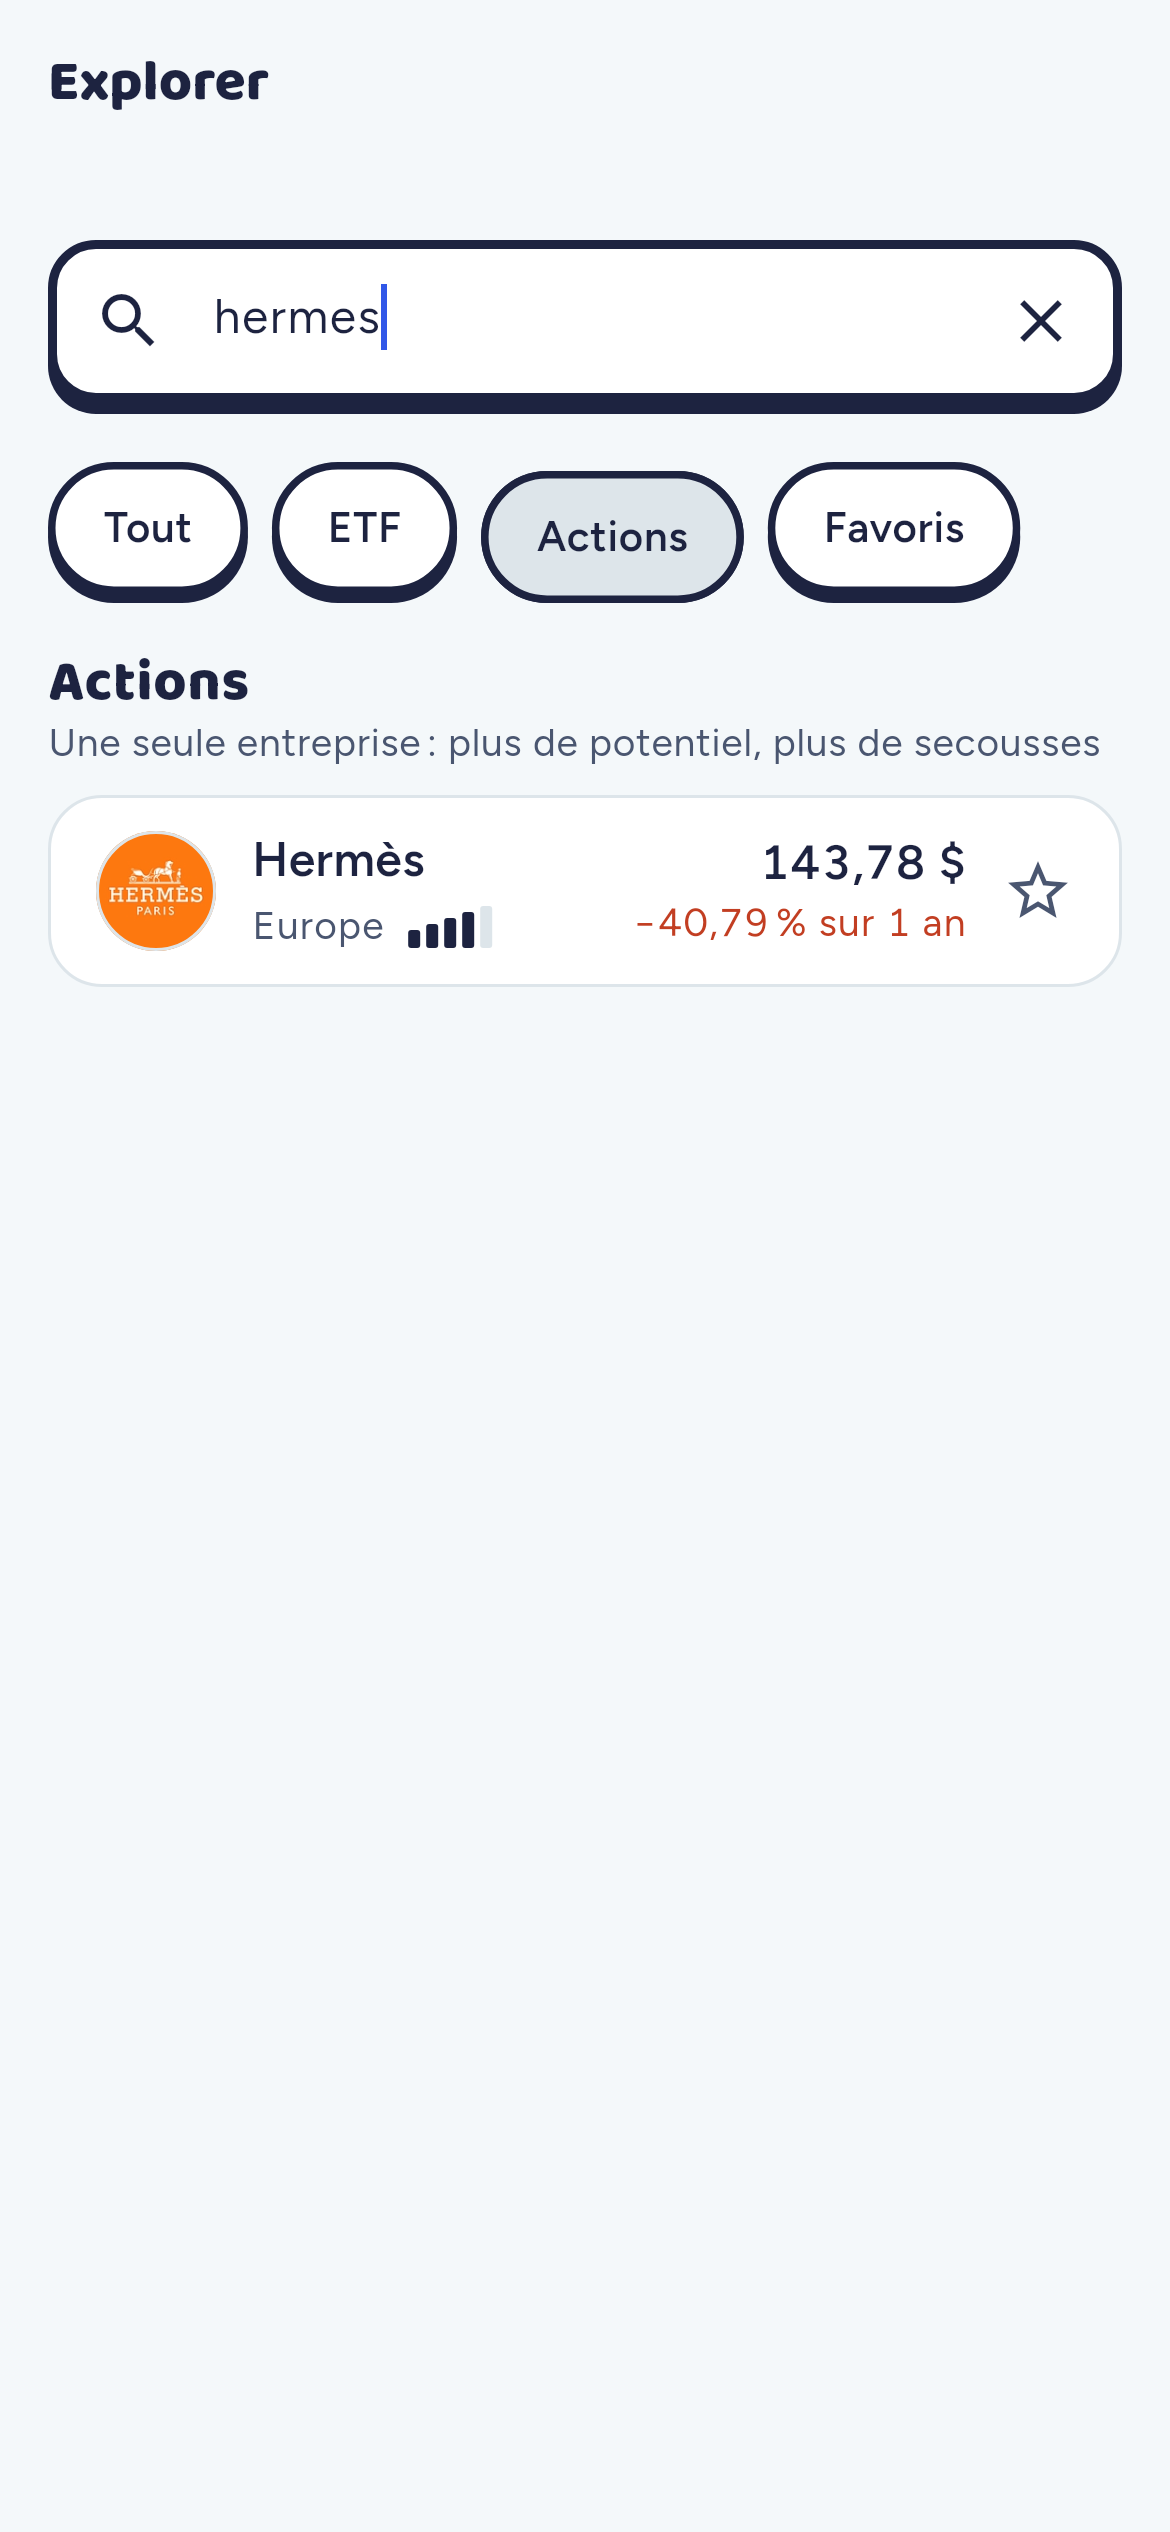
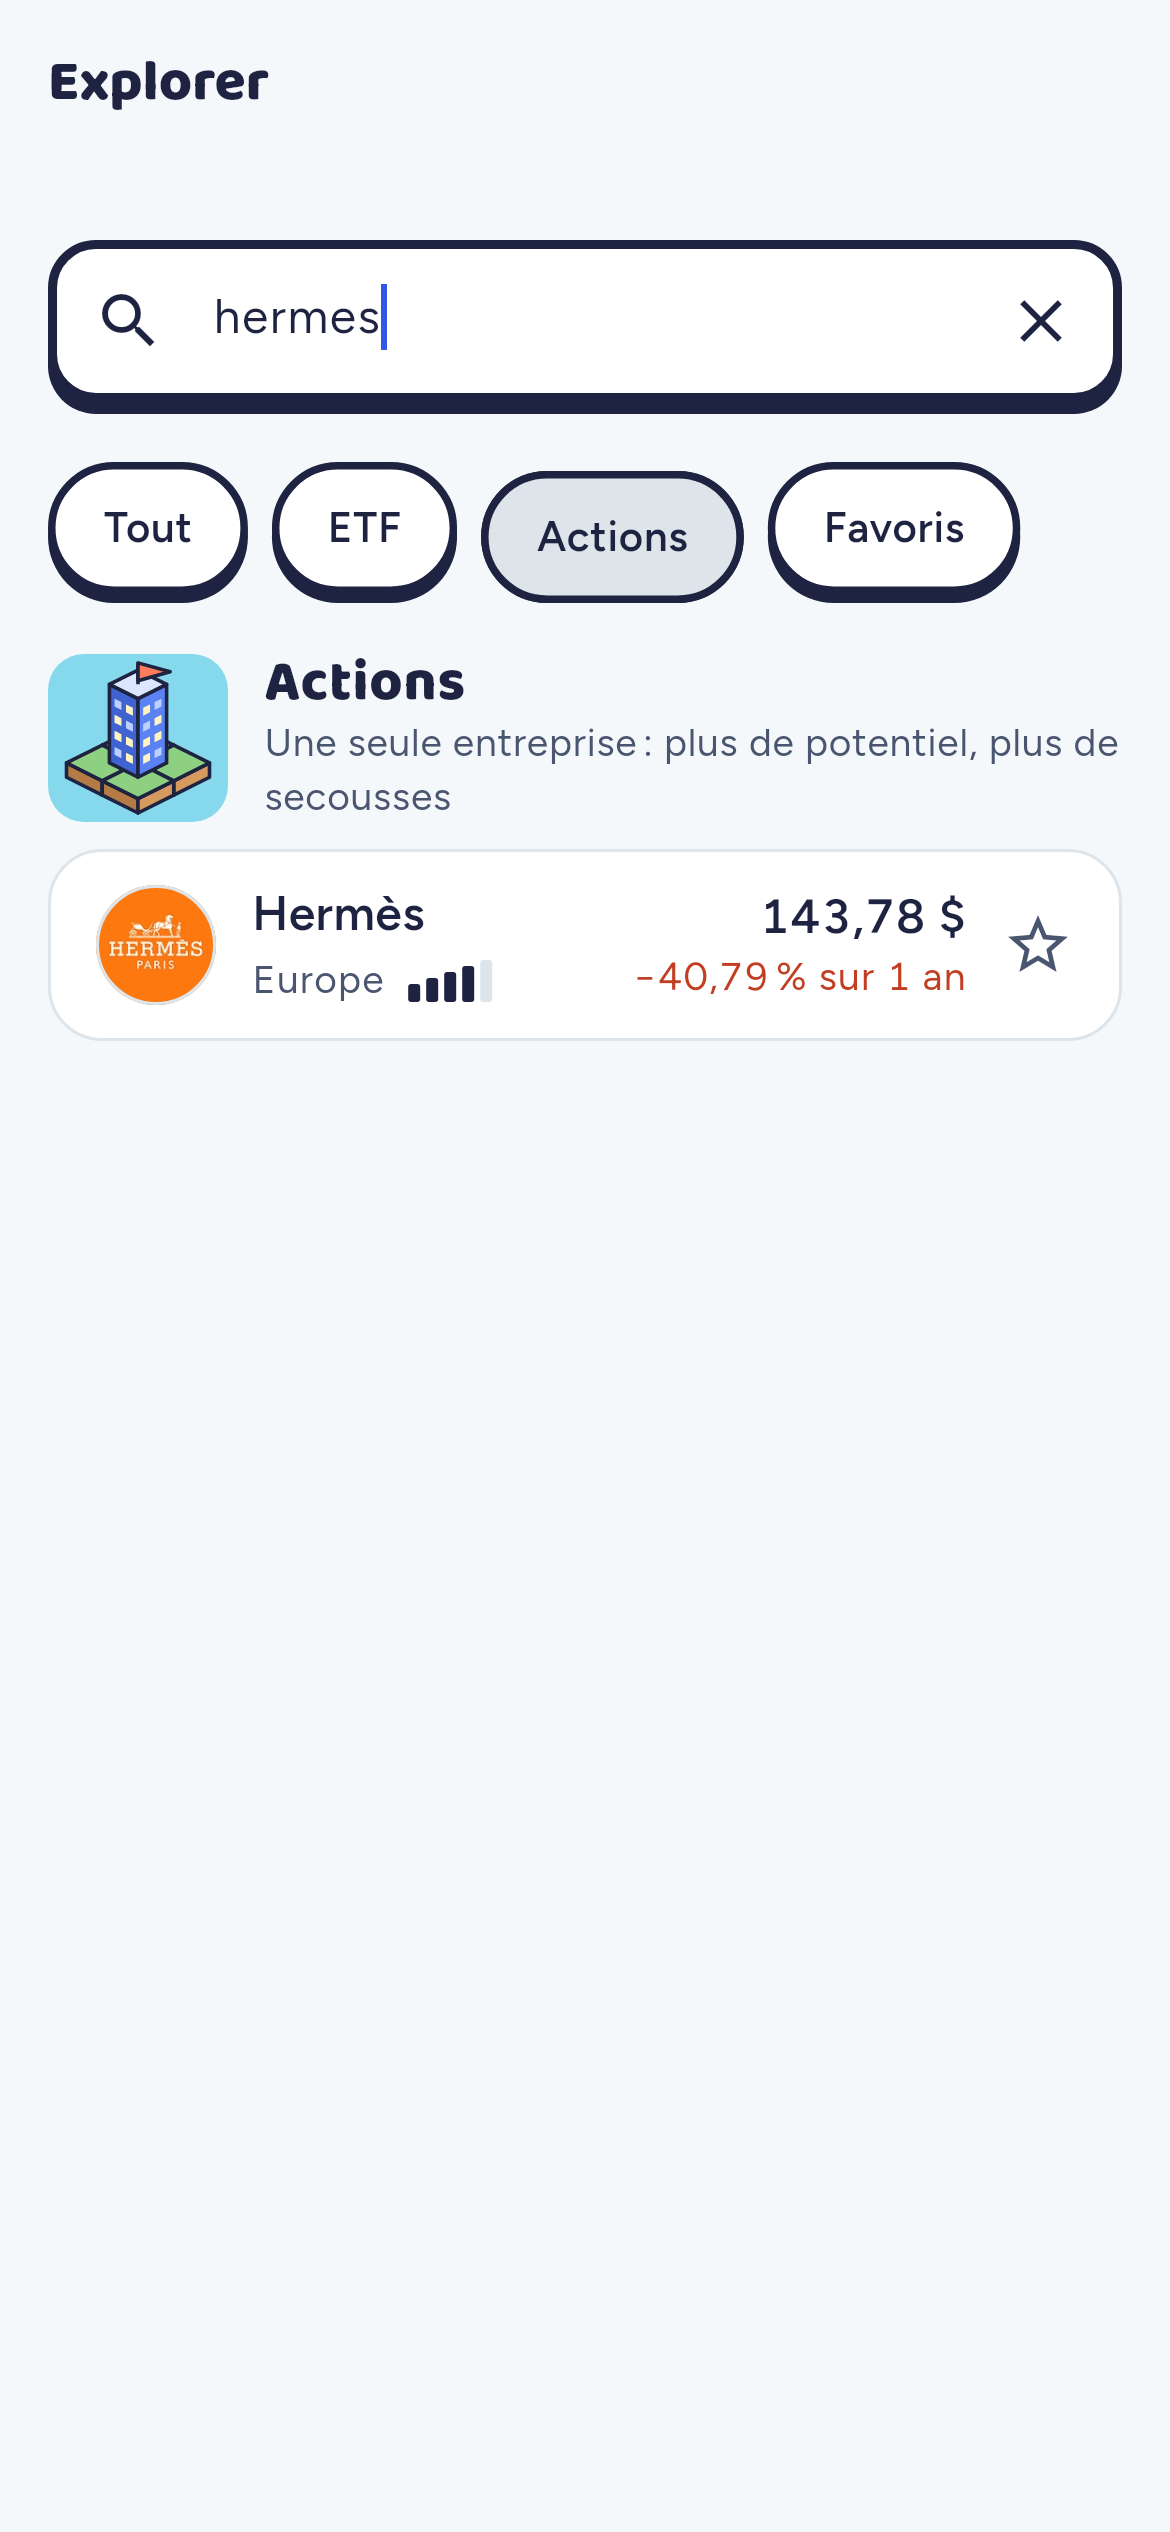
M11-5: Explore's sections show what they hold (#9)

Changed region(s): [[0.0308, 0.2496, 0.9538, 0.4056], [0.8615, 0.3432, 0.9231, 0.4056]]

diff --git a/app/lib/presentation/features/explorer/asset_kind_scene.dart b/app/lib/presentation/features/explorer/asset_kind_scene.dart
@@ -1,0 +1,152 @@
+import 'package:flutter/material.dart';
+
+import '../../../core/theme/tokens.dart';
+import '../../../domain/market/asset.dart';
+import '../map/archipelago.dart';
+import '../map/iso.dart';
+
+/// What a section of Explore holds, as a small scene on a square of sea
+/// (BRIEF §4.9, M11-5): ETFs, several companies on one plot; stocks, one
+/// company, one tower. Decorative: the header says it in words.
+class AssetKindScene extends StatelessWidget {
+  const AssetKindScene(this.type, {super.key});
+
+  final AssetType type;
+
+  static const size = Size(60, 56);
+
+  @override
+  Widget build(BuildContext context) => ExcludeSemantics(
+    child: Container(
+      width: size.width,
+      height: size.height,
+      clipBehavior: Clip.antiAlias,
+      decoration: BoxDecoration(
+        color: AppColors.sea,
+        borderRadius: BorderRadius.circular(AppSpace.x3),
+      ),
+      child: CustomPaint(painter: _ScenePainter(type)),
+    ),
+  );
+}
+
+class _ScenePainter extends CustomPainter {
+  const _ScenePainter(this.type);
+
+  final AssetType type;
+
+  /// A plot two tiles wide, the tower and its flag within the square.
+  static const _tileOfHeight = 1 / 2.35;
+
+  @override
+  void paint(Canvas canvas, Size size) {
+    final tile = size.height * _tileOfHeight;
+    final p = IsoProjection(
+      tile: tile,
+      unit: tile / 2,
+      // The plot's front corner just above the bottom edge.
+      origin: Offset(size.width / 2, size.height - 3 - 0.7 * tile),
+    );
+    final pen = BlockPen(canvas, AppColors.ink, 1.2);
+    final plot = (
+      top: MapPalette.grass,
+      left: MapPalette.dirt.left,
+      right: MapPalette.dirt.right,
+    );
+    for (final (x, y) in const [
+      (-1.0, -1.0),
+      (0.0, -1.0),
+      (-1.0, 0.0),
+      (0.0, 0.0),
+    ]) {
+      pen.block(boxFacets(p, x, y, 1, 1, 0.4, z: -0.4), plot);
+    }
+    switch (type) {
+      // Back to front.
+      case AssetType.etf:
+        for (final (x, y, h, colour) in [
+          (-0.8, -0.8, 1.2, 0),
+          (0.2, -0.8, 1.7, 1),
+          (-0.8, 0.2, 0.9, 3),
+          (0.2, 0.2, 1.4, 2),
+        ]) {
+          _building(pen, p, x, y, 0.6, h, colour);
+        }
+      case AssetType.stock:
+        _building(pen, p, -0.4, -0.4, 0.8, 2.2, 0);
+        _flag(canvas, p, 0, 0, 2.2);
+    }
+  }
+
+  static void _building(
+    BlockPen pen,
+    IsoProjection p,
+    double x,
+    double y,
+    double w,
+    double h,
+    int colour,
+  ) {
+    final (shades, lit) = MapPalette.buildings[colour];
+    pen.block(boxFacets(p, x, y, w, w, h), shades);
+    // Two columns of windows on each visible side, one in three lit.
+    final canvas = pen.canvas;
+    final light = Paint();
+    var row = 0;
+    for (var z = 0.3; z + 0.22 <= h - 0.1; z += 0.45, row++) {
+      for (final (i, a) in const [0.18, 0.58].indexed) {
+        light.color = (row + i) % 3 == 0 ? lit : MapPalette.window;
+        final (u0, u1) = (a * w, (a + 0.24) * w);
+        canvas
+          ..drawPath(
+            Path()..addPolygon([
+              p.project(x + u0, y + w, z),
+              p.project(x + u1, y + w, z),
+              p.project(x + u1, y + w, z + 0.22),
+              p.project(x + u0, y + w, z + 0.22),
+            ], true),
+            light,
+          )
+          ..drawPath(
+            Path()..addPolygon([
+              p.project(x + w, y + u0, z),
+              p.project(x + w, y + u1, z),
+              p.project(x + w, y + u1, z + 0.22),
+              p.project(x + w, y + u0, z + 0.22),
+            ], true),
+            light,
+          );
+      }
+    }
+  }
+
+  /// The pole from the roof's centre, its pennant in the map's flag colour.
+  static void _flag(
+    Canvas canvas,
+    IsoProjection p,
+    double x,
+    double y,
+    double h,
+  ) {
+    final foot = p.project(x, y, h);
+    final top = p.project(x, y, h + 0.6);
+    final ink = Paint()
+      ..color = AppColors.ink
+      ..strokeWidth = 1.2
+      ..style = PaintingStyle.stroke
+      ..strokeJoin = StrokeJoin.round;
+    final pennant = Path()
+      ..addPolygon([
+        top,
+        top + Offset(p.unit * 0.9, p.unit * 0.25),
+        top + Offset(0, p.unit * 0.5),
+      ], true);
+    canvas
+      ..drawLine(foot, top, ink)
+      ..drawPath(pennant, Paint()..color = MapPalette.flag)
+      ..drawPath(pennant, ink);
+  }
+
+  @override
+  bool shouldRepaint(_ScenePainter oldDelegate) => oldDelegate.type != type;
+}

diff --git a/app/lib/presentation/widgets/section_title.dart b/app/lib/presentation/widgets/section_title.dart
@@ -7,7 +7,13 @@ import '../../core/theme/tokens.dart';
 /// flat card, so a screen reads by its sections rather than as a column of
 /// identical cards.
 class SectionTitle extends StatelessWidget {
-  const SectionTitle(this.title, {super.key, this.top = 0, this.line});
+  const SectionTitle(
+    this.title, {
+    super.key,
+    this.top = 0,
+    this.line,
+    this.leading,
+  });
 
   final String title;
 
@@ -17,10 +23,13 @@ class SectionTitle extends StatelessWidget {
   /// A line under the title saying what the section holds.
   final String? line;
 
+  /// Drawn before the title and its line: what the section holds, as a
+  /// small scene (Explore's, M11-5).
+  final Widget? leading;
+
   @override
-  Widget build(BuildContext context) => Padding(
-    padding: EdgeInsets.only(top: top, bottom: AppSpace.x2),
-    child: Column(
+  Widget build(BuildContext context) {
+    final words = Column(
       crossAxisAlignment: CrossAxisAlignment.stretch,
       mainAxisSize: MainAxisSize.min,
       children: [
@@ -28,8 +37,21 @@ class SectionTitle extends StatelessWidget {
         if (line case final line?)
           Text(line, style: AppText.caption.copyWith(color: AppColors.muted)),
       ],
-    ),
-  );
+    );
+    return Padding(
+      padding: EdgeInsets.only(top: top, bottom: AppSpace.x2),
+      child: switch (leading) {
+        null => words,
+        final leading => Row(
+          children: [
+            leading,
+            const SizedBox(width: AppSpace.x3),
+            Expanded(child: words),
+          ],
+        ),
+      },
+    );
+  }
 }
 
 /// [child] under its [title].

diff --git a/app/test/presentation/features/explorer_screen_test.dart b/app/test/presentation/features/explorer_screen_test.dart
@@ -8,6 +8,7 @@ import 'package:finance_companion/data/local/database.dart';
 import 'package:finance_companion/domain/market/asset.dart';
 import 'package:finance_companion/domain/market/market_calendar.dart';
 import 'package:finance_companion/main.dart';
+import 'package:finance_companion/presentation/features/explorer/asset_kind_scene.dart';
 import 'package:finance_companion/presentation/features/explorer/explorer_screen.dart';
 import 'package:finance_companion/core/widgets/chunky.dart';
 import 'package:flutter/material.dart';
@@ -133,6 +134,30 @@ void main() {
         tester.getTopLeft(inList(text)).dy,
     ];
     expect(tops, orderedEquals([...tops]..sort()));
+    // Each title beside what it holds, as a scene the words already say
+    // (M11-5): a basket of buildings, one tower.
+    for (final (type, title) in [
+      (AssetType.etf, 'ETF'),
+      (AssetType.stock, 'Actions'),
+    ]) {
+      final scene = find.byWidgetPredicate(
+        (w) => w is AssetKindScene && w.type == type,
+      );
+      expect(scene, findsOneWidget, reason: title);
+      expect(
+        tester.getCenter(scene).dy,
+        closeTo(
+          tester.getCenter(inList(title)).dy,
+          AssetKindScene.size.height / 2,
+        ),
+        reason: title,
+      );
+      expect(
+        find.descendant(of: scene, matching: find.byType(ExcludeSemantics)),
+        findsOneWidget,
+        reason: title,
+      );
+    }
 
     // Filters and search narrow both groups; one left empty is not shown.
     await tester.tap(find.widgetWithText(ChunkyChip, 'Actions'));

diff --git a/app/lib/presentation/features/explorer/explorer_screen.dart b/app/lib/presentation/features/explorer/explorer_screen.dart
@@ -15,6 +15,7 @@ import '../../widgets/asset_avatar.dart';
 import '../../widgets/cache_status_banner.dart';
 import '../../widgets/risk_meter.dart';
 import '../../widgets/section_title.dart';
+import 'asset_kind_scene.dart';
 import '../../widgets/sign_color.dart';
 
 /// The catalogue: search, filters, favorites (BRIEF §4.9), the ETFs then
@@ -195,11 +196,13 @@ class _List extends ConsumerWidget {
                       AssetType.etf => SectionTitle(
                         l10n.explorer_filter_etfs,
                         line: l10n.explorer_etfs_line,
+                        leading: const AssetKindScene(AssetType.etf),
                         top: i == 0 ? AppSpace.x2 : AppSpace.x4,
                       ),
                       AssetType.stock => SectionTitle(
                         l10n.explorer_filter_stocks,
                         line: l10n.explorer_stocks_line,
+                        leading: const AssetKindScene(AssetType.stock),
                         top: i == 0 ? AppSpace.x2 : AppSpace.x4,
                       ),
                     },

diff --git a/docs/BRIEF.md b/docs/BRIEF.md
@@ -715,6 +715,9 @@ prix » (limit, stop) or « … au prochain jour de cotation du voyage » (trip)
   « Une seule entreprise : plus de potentiel, plus de secousses »), its rows in a flat card, sorted by name
   inside. Search and filters narrow both groups; a group with nothing left is not shown. Filter chips are
   pills; a long name wraps to a second line.
+- Each section title beside what it holds (decided 2026-10-28 by the user, M11-5: « it shows what each is »),
+  a 60×56 scene on `sea` in `MapPalette` (§10.2): ETF, four small buildings on one plot (a basket); Actions,
+  one tower with its flag (one company). Decorative: the title and its line say it.
 
 ### 4.10 DCA simulator
 
